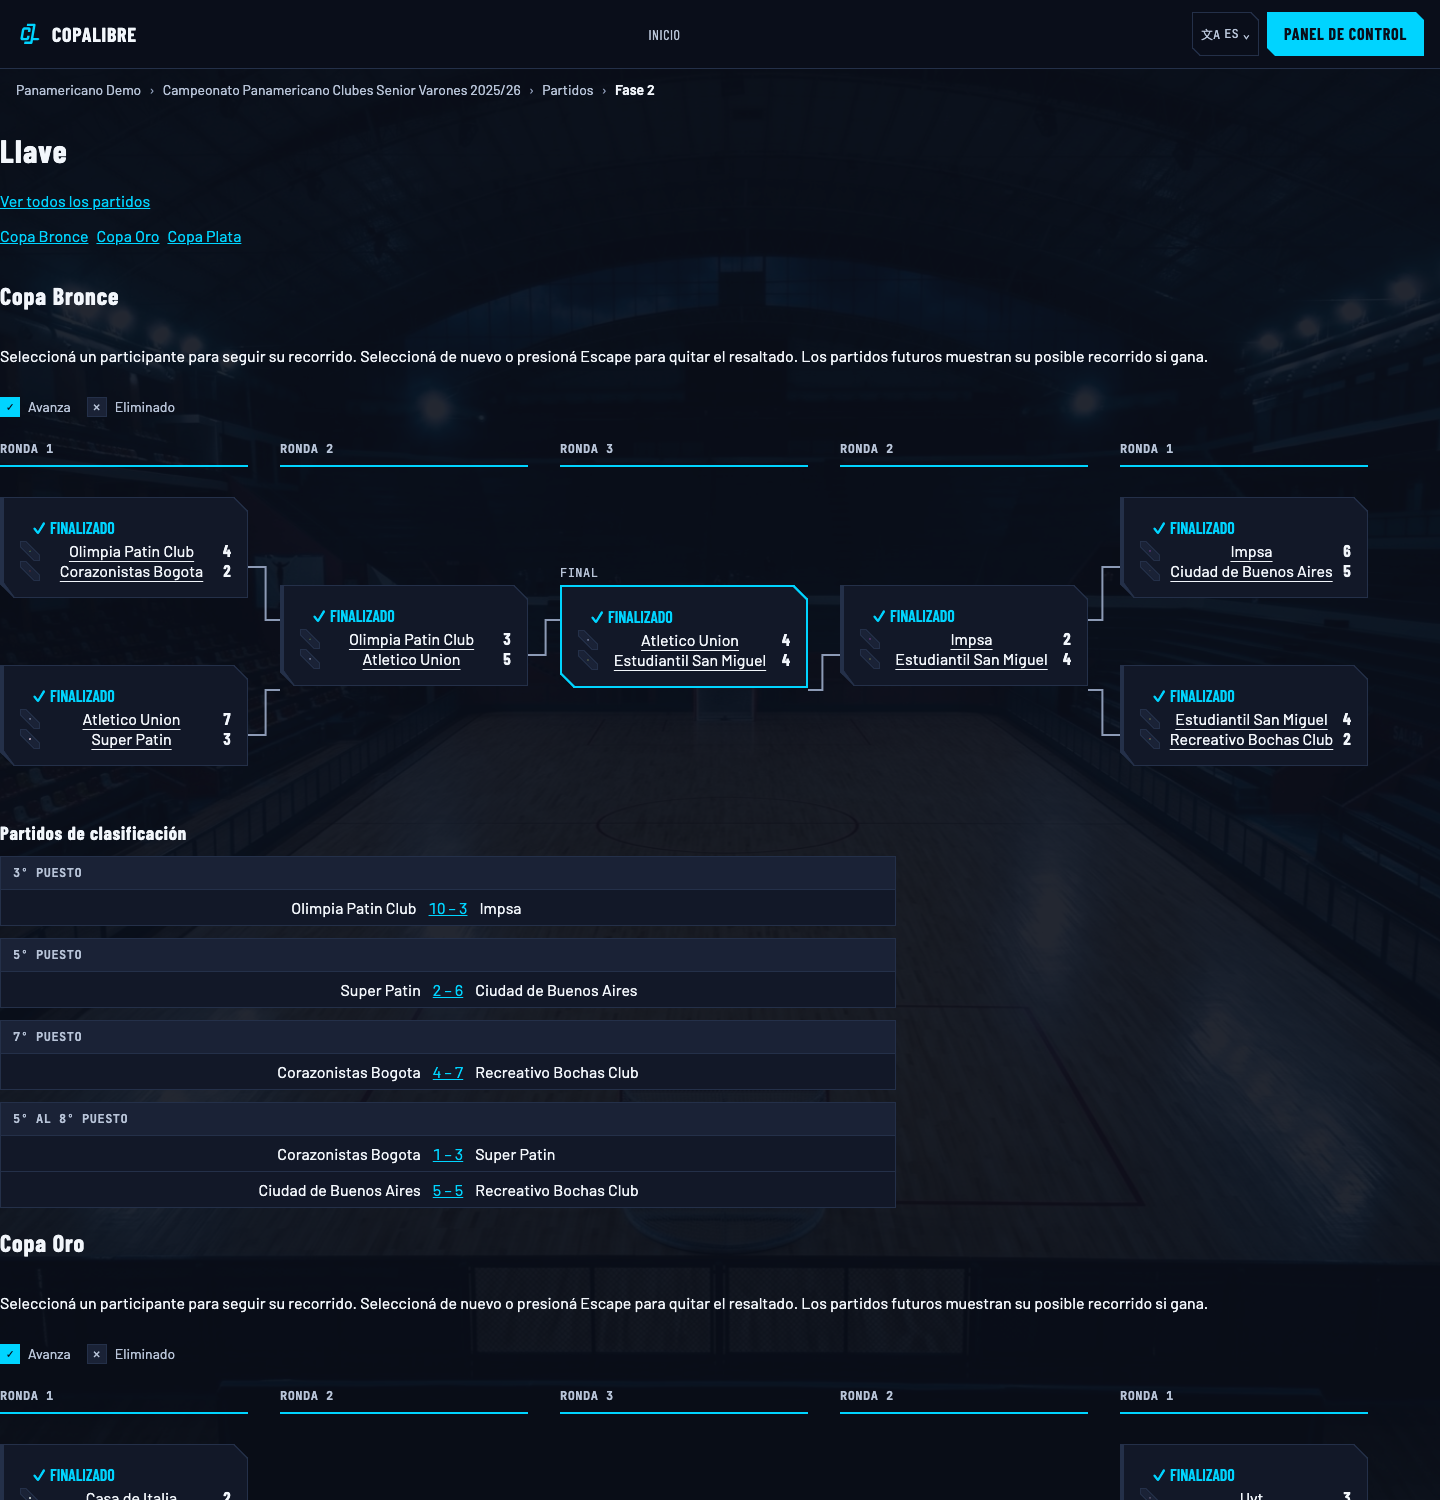
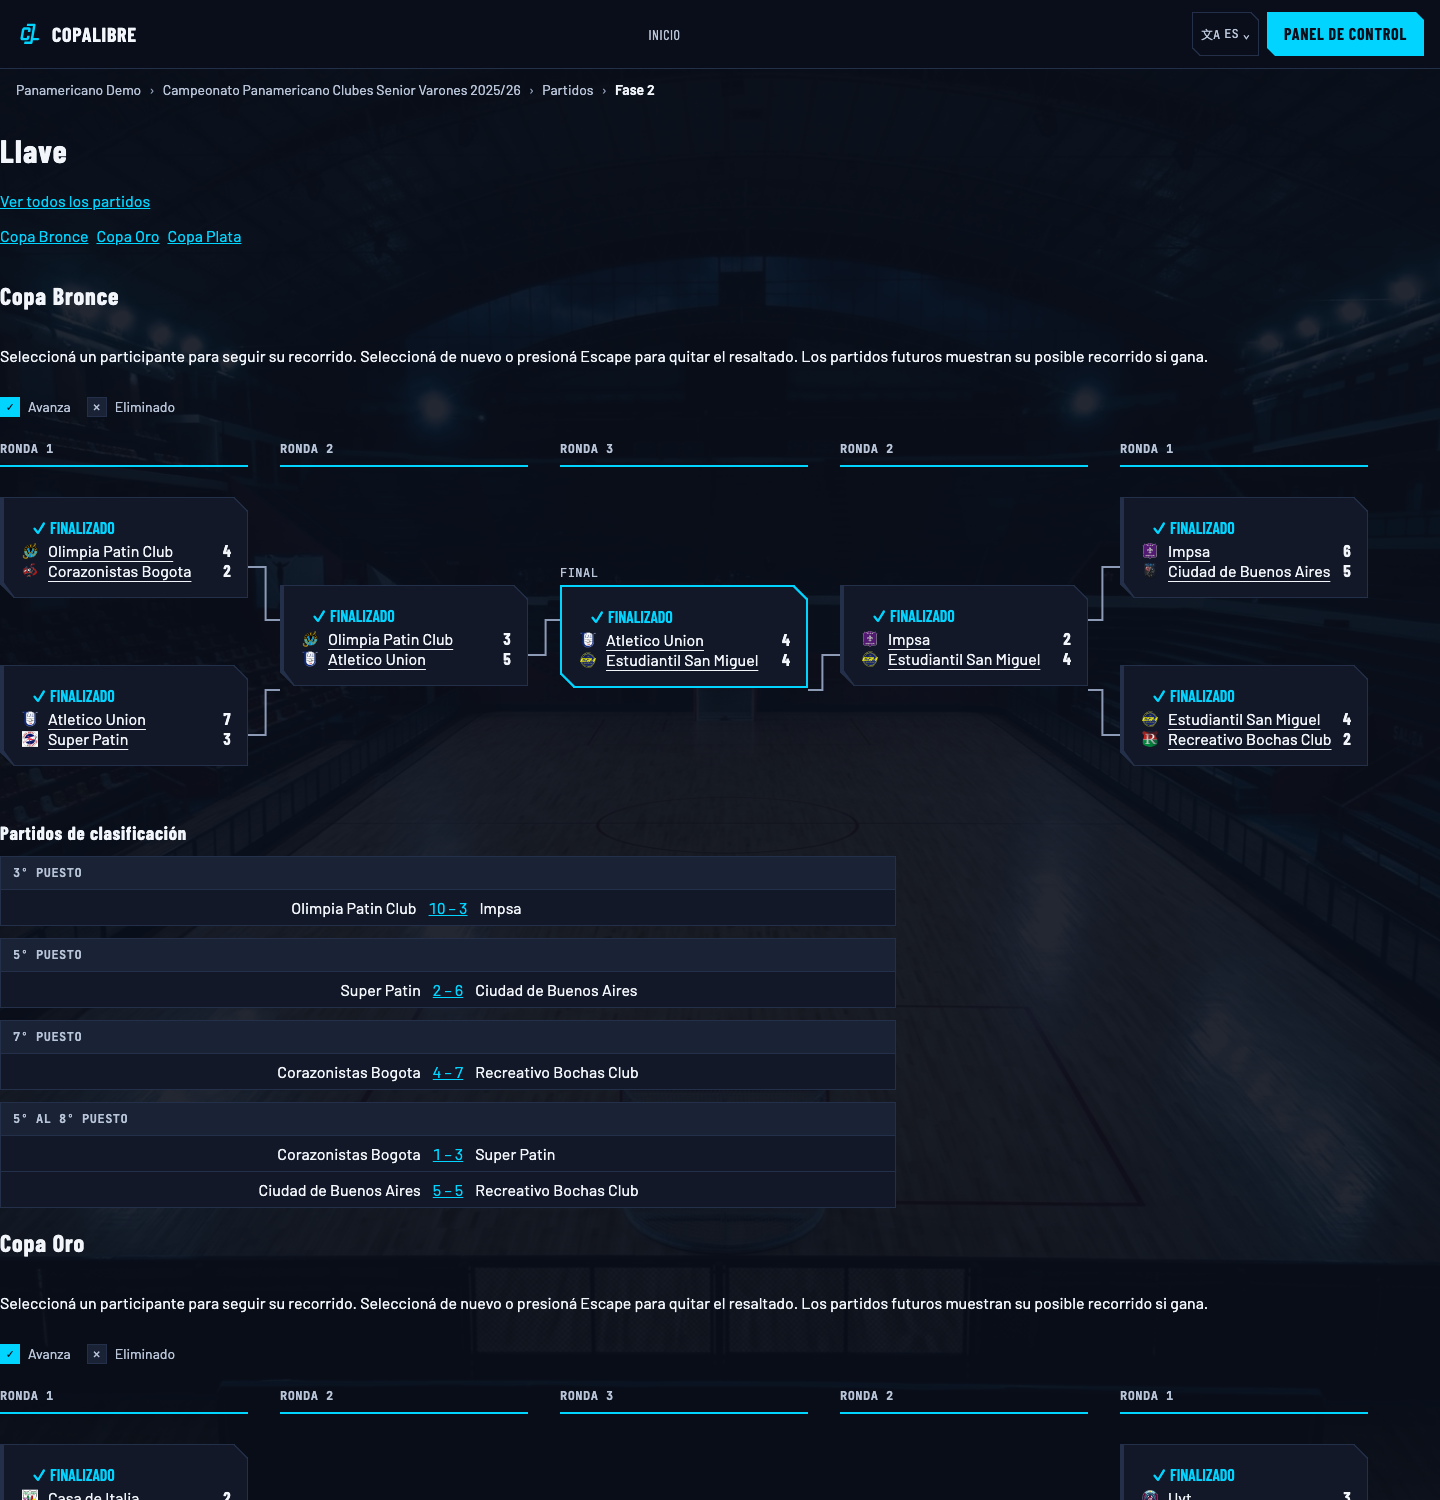
feat(web): add a bare emblem mode and align club names left in the bracket card
EmblemImage gains `bare`: no background, border, chamfer or inset, only the 1:1 image, for an emblem inline with a club name. The full bracket card uses it and reads names from the left.

diff --git a/apps/web/src/components/ui/atoms/emblem-and-person-image.test.ts b/apps/web/src/components/ui/atoms/emblem-and-person-image.test.ts
@@ -25,6 +25,16 @@ describe('EmblemImage display atom', () => {
   });
 });
 
+describe('EmblemImage bare mode', () => {
+  it('drops the frame, chamfer and inset and keeps only the 1:1 image', () => {
+    expect(emblemAstro).toContain("bare && 'cl-emblem-frame--bare'");
+    expect(emblemAstro).toMatch(/\.cl-emblem-frame--bare\s*\{[^}]*border:\s*0/);
+    expect(emblemAstro).toMatch(/\.cl-emblem-frame--bare\s*\{[^}]*background:\s*none/);
+    expect(emblemAstro).toMatch(/\.cl-emblem-frame--bare\s*\{[^}]*border-radius:\s*0/);
+    expect(emblemAstro).toMatch(/\.cl-emblem-frame--bare img\s*\{[^}]*padding:\s*0/);
+  });
+});
+
 describe('PersonPhotoImage display atom', () => {
   it('keeps person-photo geometry separate without imposing emblem 1:1 aspect-ratio', () => {
     expect(personAstro).toContain('style={`width: ${size}px`}');

diff --git a/apps/web/src/components/ui/AstroPreview.stories.tsx b/apps/web/src/components/ui/AstroPreview.stories.tsx
@@ -136,6 +136,11 @@ export const EmblemImage: Story = {
   args: { component: 'emblem-image', height: 180 },
 };
 
+/** The `bare` emblem: no background, border, chamfer or inset, only the 1:1 image for inline use. */
+export const EmblemImageBare: Story = {
+  args: { component: 'emblem-image-bare', height: 120 },
+};
+
 /** The same emblem at three `size` values; every frame remains square. */
 export const EmblemImageMatrix: Story = {
   args: { component: 'emblem-image-matrix', height: 200 },
